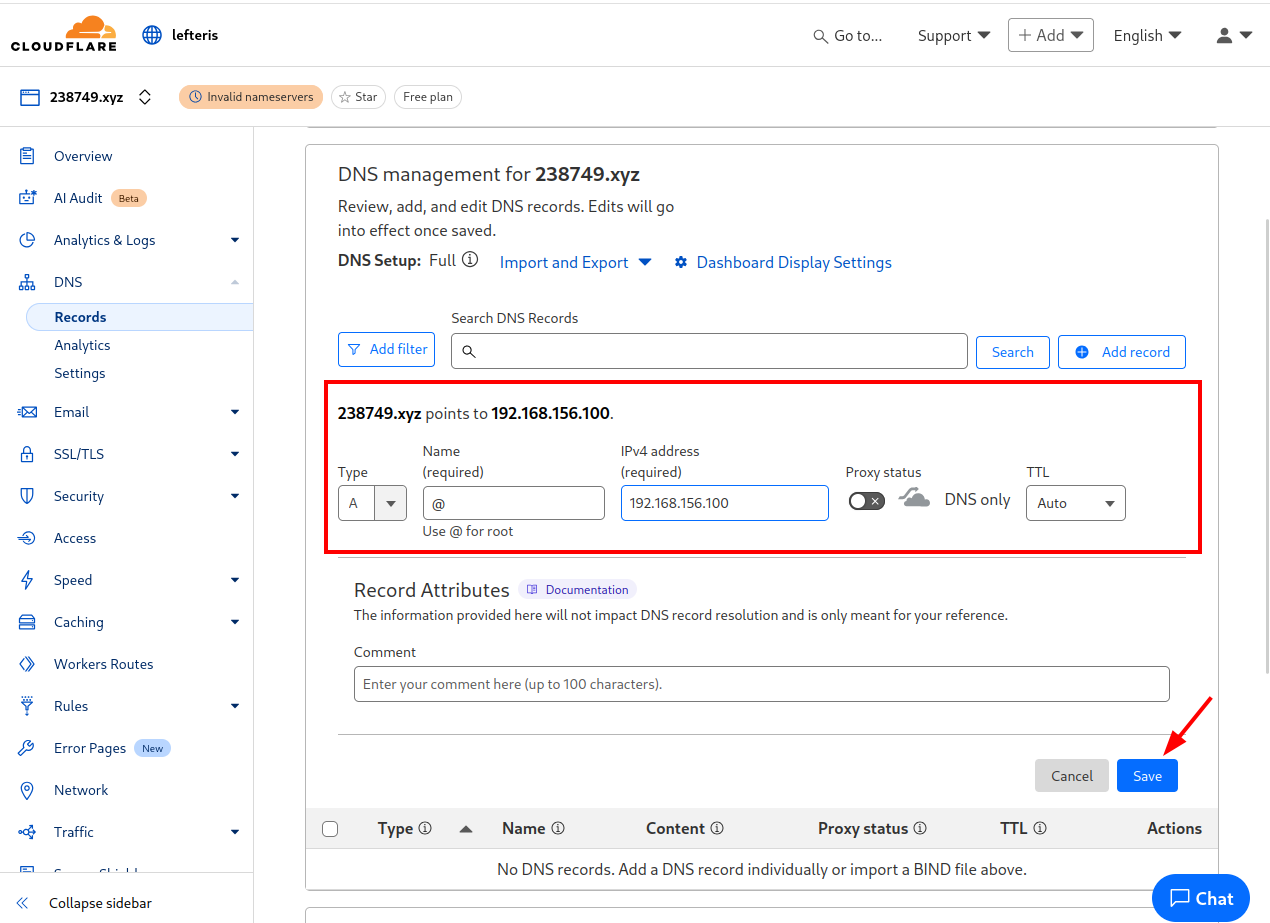
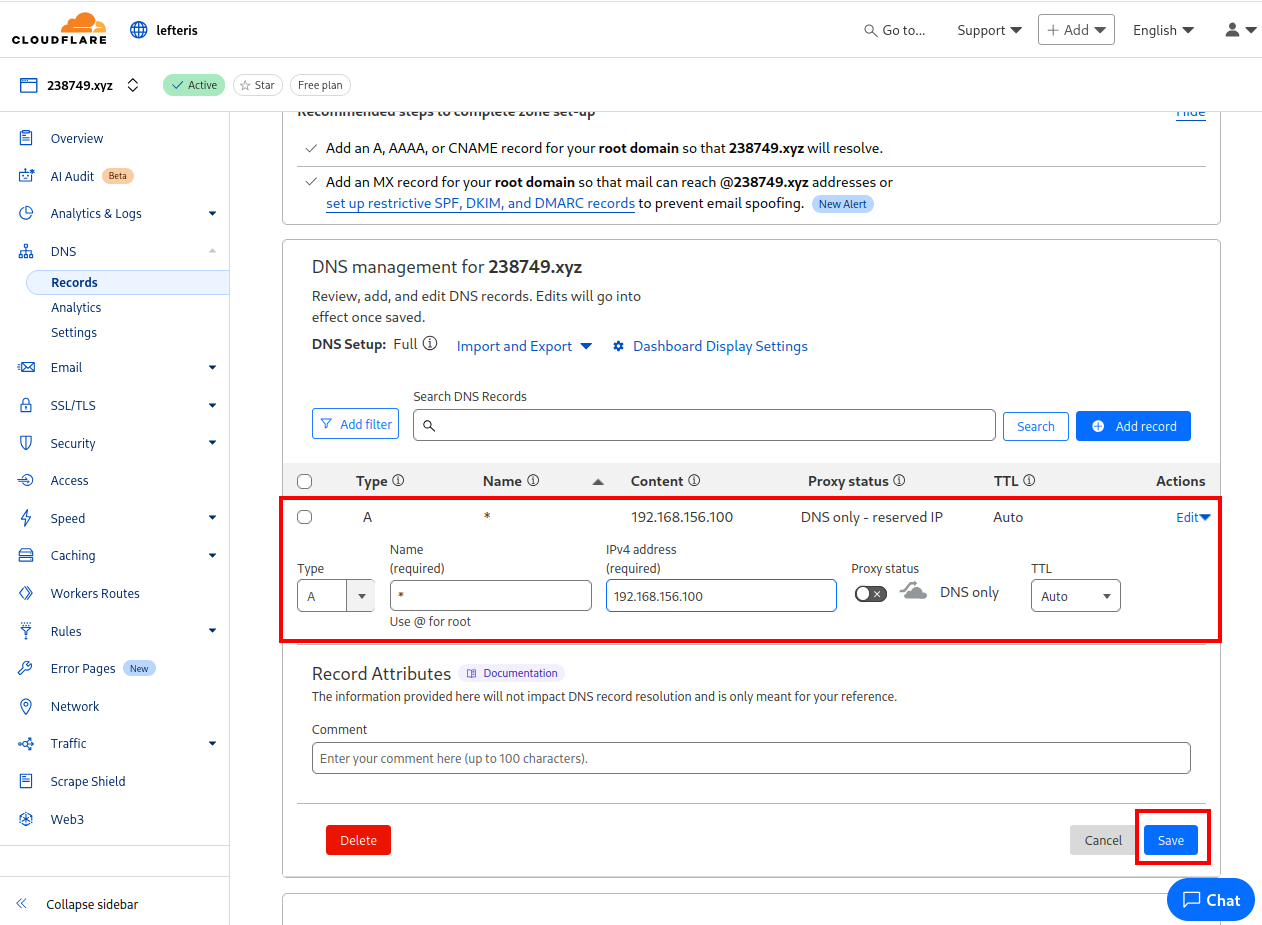
fix: update comments from review#3

diff --git a/docs/Preparation/Infisical.md b/docs/Preparation/Infisical.md
@@ -33,94 +33,31 @@ Lastly assign the new identity as Project Viewer
 ![](../../static/img/infisical-project-2.png)
 
 
-## Add secrets
+## Add required secrets
 
-Is important first to understand how the secrets are copied in to the VPS first.  
-Below a structure of the folder containers our applications.
+Is important first to understand how the secrets are copied in to the VPS first, if you haven't done already take a look first in [how it works](../how_it_works.md) section.
 
-```
-├── docker-compose.yaml
-├── adguard
-│   └── docker-compose.yaml
-├── docker-backup
-│   └── docker-compose.yaml
-├── traefik
-│   └── docker-compose.yaml
-└── uptime
-    └── docker-compose.yaml
-```
+We need to create 3 secrets in order to be able to complete the DNS challenge, we can create those secrets by pressing the **"Add Secret"** button.
 
-In this structure there is a main `docker-compose.yaml` file which is used to configure:
-1. Which other `docker-compose.yaml` files should be included, so in other words which other services should be enabled.
-2. The docker network name and subnet.
 
-example of a root docker-compose.yaml file
 
-```
-version: "3"
-include:
-  - ./traefik/docker-compose.yaml
-  - ./docker-backup/docker-compose.yaml
-  - ./dashy/docker-compose.yaml
-  - ./uptime/docker-compose.yaml
-networks:
-  private_network:
-    name: private_network
-    driver: bridge
-    ipam:
-      config:
-        - subnet: 172.29.1.0/24
-```
+**DOMAIN:** The domain name for which you want to enable TLS. In this example `238749.xyz`
 
-All applications then have their own dedicated  `docker-compose.yaml` file under a specific directory.  
-For instance for the traefik application the `docker-compose.yaml` is the `traefik/docker-compose.yaml`
+To create the secret we click on **"Add secret"** button and fill the `Key` `Value` and `Environments` where this secret will be available.
 
-```
-version: "3.8"
+:::note
+    Make sure all secrets are available for Production environment since the deployr script that downloads the secrets is looking for the secrets available for Production Environment only
+:::
+![](../../static/img/infisical-add-secret-button.png)
+![](../../static/img/infisical-domain-secret-create.png)
 
-name: traefik
 
-services:
-  traefik:
-    image: traefik:v3.3
-    container_name: traefik
-    ports:
-      - 80:80
-      - 443:443
-      - 8080:8080
-    networks:
-      private_network:
-    env_file:
-      - .secrets
-    volumes:
-      - /var/run/docker.sock:/var/run/docker.sock:ro
-      - /mnt/data/traefik/letsencrypt:/letsencrypt
-    command:
-      - "--api=true"
-      - "--api.dashboard=true"
-      - "--providers.docker=true"
-      - "--providers.docker.exposedbydefault=false"
-      - "--entrypoints.web.address=:80"
-      - "--entrypoints.websecure.address=:443"
-      - "--entrypoints.web.http.redirections.entryPoint.to=websecure"
-      - "--certificatesresolvers.letsencrypt.acme.dnschallenge=true"
-      - "--certificatesresolvers.letsencrypt.acme.dnschallenge.provider=cloudflare"
-      - "--certificatesresolvers.letsencrypt.acme.email=${EMAIL}"
-      - "--certificatesresolvers.letsencrypt.acme.storage=/letsencrypt/acme.json"
-    labels:
-      - "traefik.enable=true"
-      - "traefik.http.routers.dashboard.entrypoints=websecure"
-      - "traefik.http.routers.dashboard.tls.certresolver=letsencrypt"
-      - "traefik.http.routers.dashboard.rule=Host(`dashboard.${DOMAIN}`) && (PathPrefix(`/api`) || PathPrefix(`/dashboard`))"
-      - "traefik.http.routers.dashboard.service=api@internal"
-    restart: always
-```
+**EMAIL:** The email address which will provided to Let's Encrypt.
 
-### Application specific secrets
-In the above `docker-compose.yaml` for traefik we see that there are some environment variables used, `${DOMAIN}` and `${EMAIL}` . There is also a `env_file` read from the file `.secrets`.
-The way how it works is that when the deployr script is executed is going to pull all secrets from infisical and place them under the same directory as defined in infisical.  
-So all secrets stored in infisical under the directory traefik, are going to be copied to the file `./traefik/.secrets` and thus available to the containers traefik as defined in `./traefik/docker-compose.yaml`
+![](../../static/img/infisical-domain-secret.png)
+**CF_DNS_API_TOKEN**: The API token you generated in your Cloudflare account from the previous step. This token will be used to authenticate API requests to manage DNS records. This secret should be created inside a directory called `traefik`, since should be available only in the traefik container.
+![](../../static/img/infisical-create-directory.png)
+![](../../static/img/infisical-traefik-directory.png)
+![](../../static/img/infisical-traefik-secret.png)
 
-### Common variables
-In addition any secrets stored in the root directory in infisical will be available as variables accross all containers.  
 

diff --git a/docs/Preparation/Cloudflare.md b/docs/Preparation/Cloudflare.md
@@ -21,8 +21,16 @@ In the account home page select `add a domain`.
 And then select to **Manually enter DNS records**
 ![](../../static/img/cloudflare-1.png)
 
-Enter an A record to point to the private IP of the virtual machine in Hetzner. The default IP is `192.168.156.100` , if you have changed that you need to set the new IP here.
-Remember to disable the Proxy status to DNS only.
+Enter a [wildcard DNS](https://developers.cloudflare.com/dns/manage-dns-records/reference/wildcard-dns-records/#create-a-wildcard-record) A record to point to the private IP of the virtual machine in Hetzner.  
+
+**Type:** `A`  
+**Name:** `*`  
+**Content:** `192.168.156.100`  
+**Proxy Status:** Disabled 
+
+:::info
+    The default IP is `192.168.156.100` , if you have changed that you need to set the new IP here.
+:::
 
 ![](../../static/img/cloudflare-dns.png)
 
@@ -62,9 +70,11 @@ To create an API token with the following permissions for your zone.
 
 ![](../../static/img/cloudflare-create-token-2.png)
 
-2. Add Permissions Zone -> Zone -> Read & Zone -> DNS -> Edit . Then select specific zone  and select your domain and press Continiue to Summary. 
+2. Add the following permissions:  
+`Zone -> Zone -> Read` & `Zone -> DNS -> Edit` .  
+Then select specific zone  and select your domain and press **Continue to Summary**. 
 
-![](../../static/img/cloudflare-create-token-3.png)
+![](../../static/img/clouflare-token-3.png)
 
 3. Copy the generated API token , you will need it for the next step
 
